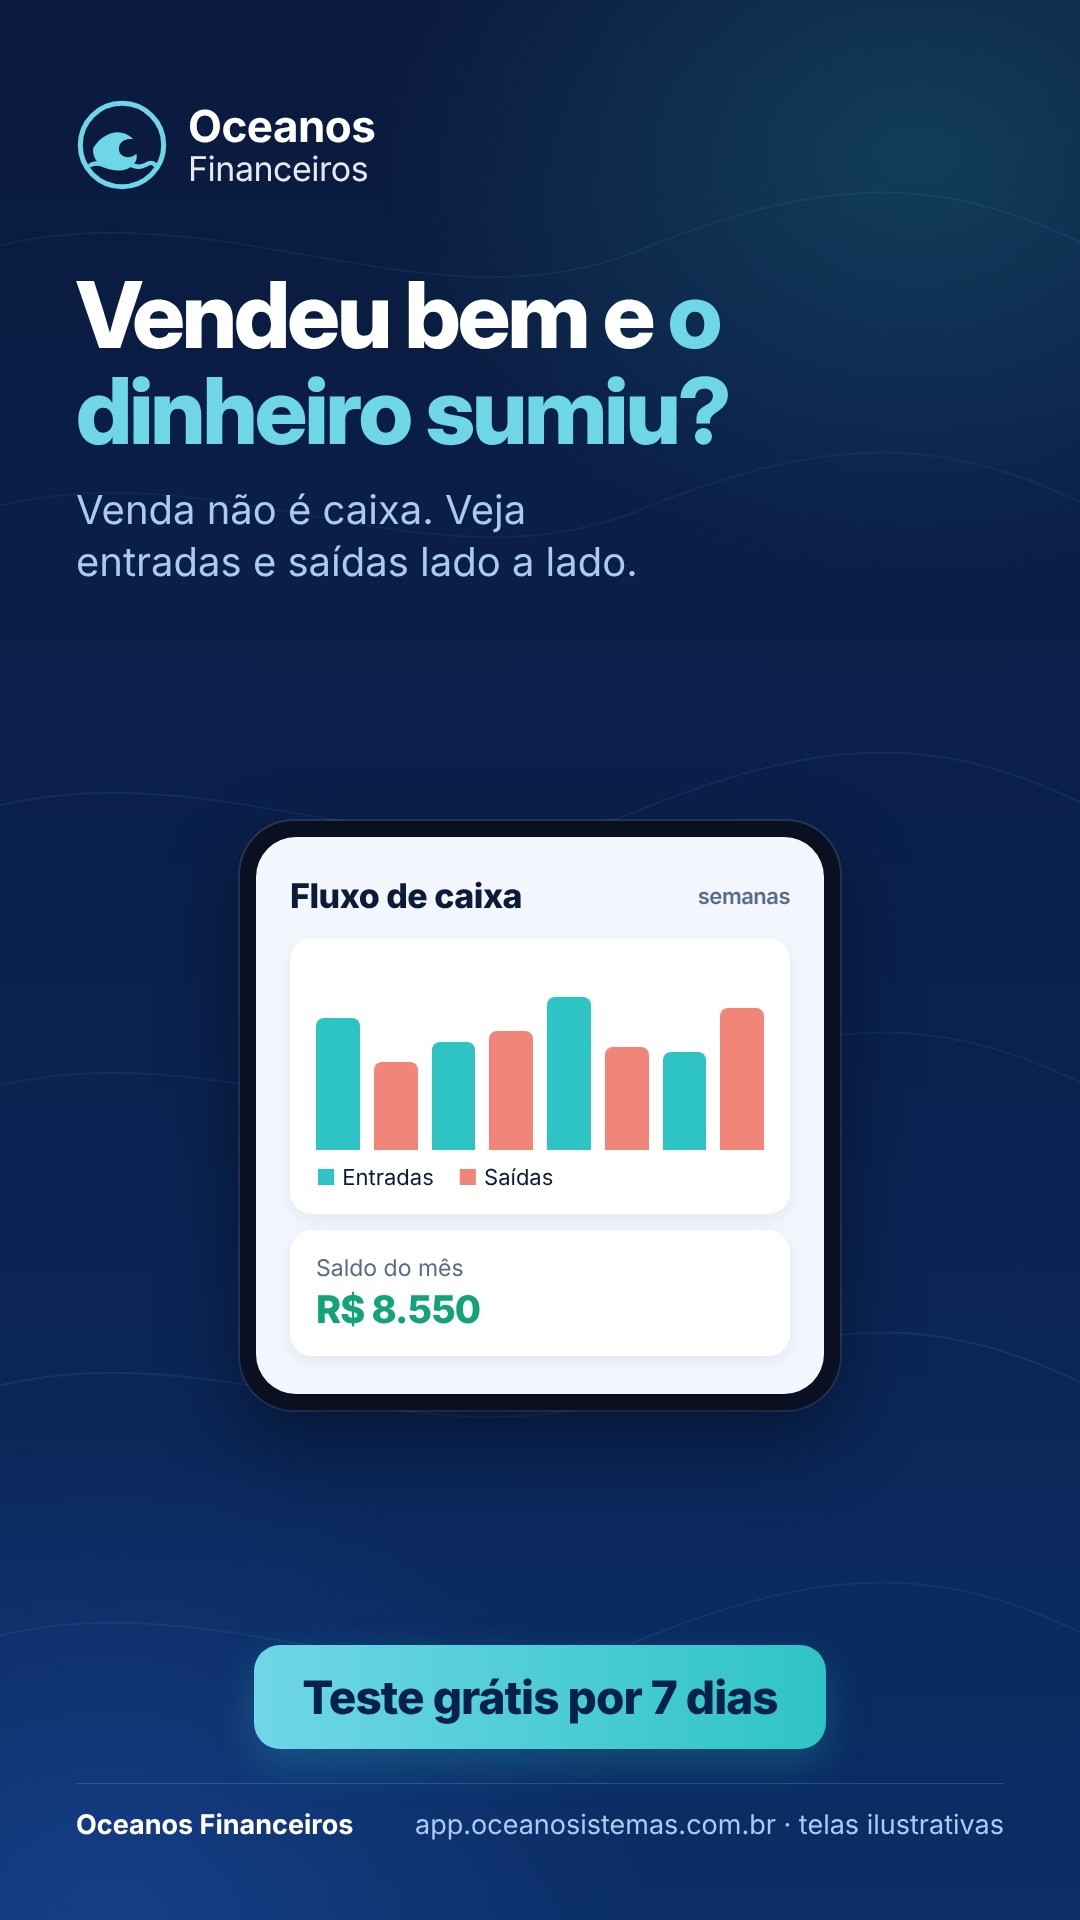
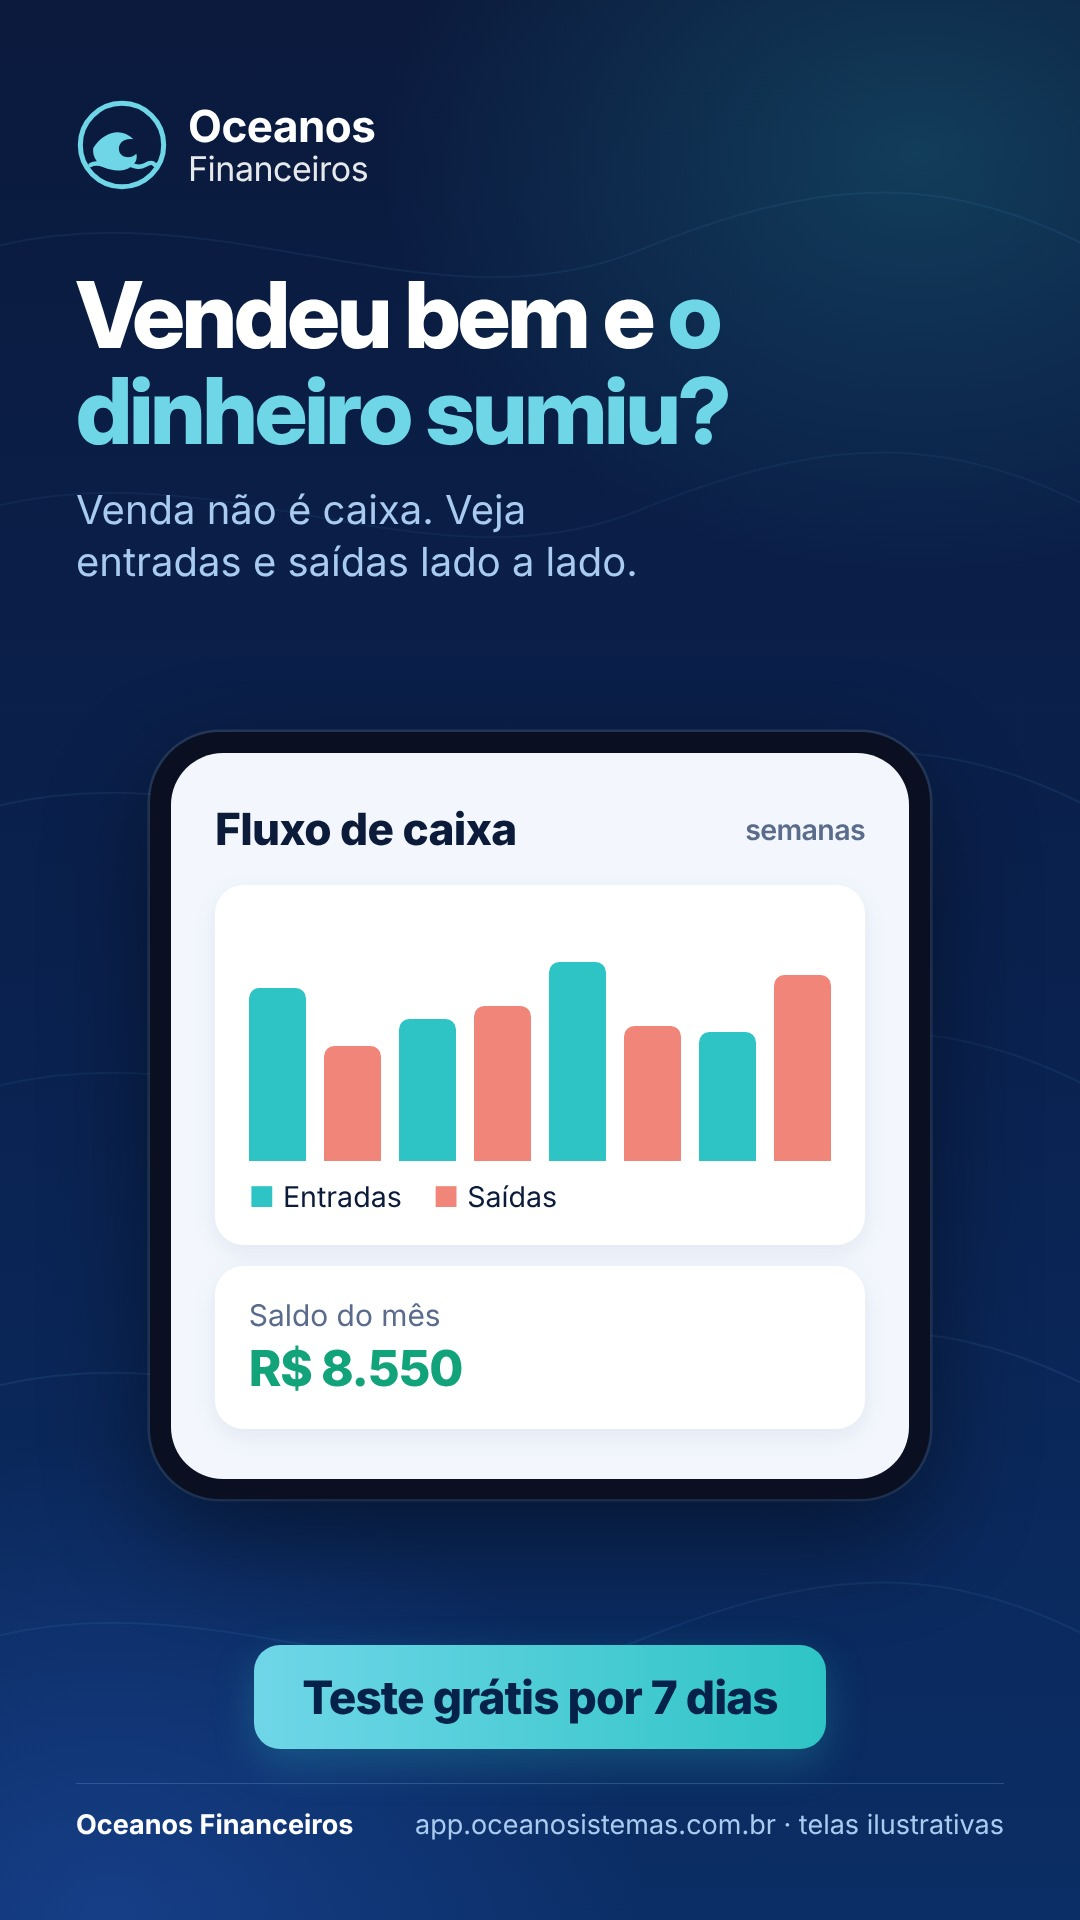
Oceanos Financeiros: stories com celular maior
Claude-Session: https://claude.ai/code/session_01TwhZrvY4W8N5pYvYZ5Ww8b

Changed region(s): [[0.1222, 0.375, 0.8861, 0.8125]]

diff --git a/ads/render_financeiro_azul.py b/ads/render_financeiro_azul.py
@@ -42,6 +42,7 @@ h1 b{{color:{ac};font-weight:800}}
 .bars{{display:flex;align-items:flex-end;gap:14px;height:170px;margin-top:18px}} .bars div{{flex:1;border-radius:8px 8px 0 0}}
 .ic{{width:50px;height:50px;border-radius:50%;display:inline-flex;align-items:center;justify-content:center;color:#fff;font-weight:800;font-size:22px;margin-right:16px;flex:none}}
 .pnl{{background:#fff;border-radius:34px;padding:34px;color:#0C1B3A;box-shadow:0 24px 60px rgba(20,60,130,.18)}} .pnl h3{{font-size:30px;font-weight:800;color:#0B2A6B;margin-bottom:10px}}
+{".stage>.dev{zoom:1.3}" if h > 1500 else ""}
 .note{{font-size:21px;opacity:.6;margin-top:10px;text-align:center}}"""
 
 def logo(light): 
@@ -55,7 +56,7 @@ LINE = '<svg viewBox="0 0 520 170" width="100%" height="170" style="margin-top:1
 def bars(vals): return '<div class="bars">' + "".join(f'<div style="height:{v}%;background:{"#2EC4C6" if i%2==0 else "#F2857A"}"></div>' for i, v in enumerate(vals)) + '</div>'
 
 ARTS = {
- "01-controle": (False, lambda k: f'<h1>Sua empresa no controle, <b>sem planilha.</b></h1><div class="pill">Teste grátis por 7 dias</div><div class="stage"><div class="dev" style="width:900px;border-radius:44px"><div class="scr dk" style="border-radius:30px"><h3>Painel financeiro <i>● Novembro</i></h3><div style="display:flex;gap:16px">' + "".join(f'<div class="cd" style="flex:1;margin:0"><div class="l">{l}</div><div class="v {c}">{v}</div></div>' for l, v, c in [("Receitas","R$ 48.200","g"),("Despesas","R$ 39.650","r"),("Resultado","R$ 8.550","")]) + f'</div><div class="cd"><div class="l">Fluxo de caixa do mês</div>{LINE}</div></div></div></div>'),
+ "01-controle": (False, lambda k: f'<h1>Sua empresa no controle, <b>sem planilha.</b></h1><div class="pill">Teste grátis por 7 dias</div><div class="stage"><div class="dev" style="width:900px;border-radius:44px;zoom:1"><div class="scr dk" style="border-radius:30px"><h3>Painel financeiro <i>● Novembro</i></h3><div style="display:flex;gap:16px">' + "".join(f'<div class="cd" style="flex:1;margin:0"><div class="l">{l}</div><div class="v {c}">{v}</div></div>' for l, v, c in [("Receitas","R$ 48.200","g"),("Despesas","R$ 39.650","r"),("Resultado","R$ 8.550","")]) + f'</div><div class="cd"><div class="l">Fluxo de caixa do mês</div>{LINE}</div></div></div></div>'),
  "02-planilha": (False, lambda k: '<div class="stage" style="flex-direction:column;align-items:flex-start"><h1 style="font-size:118px;margin:0">Chega de digitar cada despesa em <b>planilha.</b></h1><div class="sub" style="font-size:48px;margin-top:40px">Importe o extrato do banco e veja para onde o dinheiro da empresa está indo.</div><div class="pill" style="margin-top:56px">Teste grátis por 7 dias</div></div>'),
  "03-pdf-cartao": (True, lambda k: '<div class="stage" style="gap:34px"><div class="pnl" style="flex:1.5;font-size:24px"><h3>FATURA DO CARTÃO</h3><div style="display:inline-block;background:#0B5FC2;color:#fff;font-weight:800;font-size:22px;padding:8px 16px;border-radius:10px;margin-bottom:8px">PDF</div>' + "".join(f'<div class="row" style="font-size:24px"><span style="display:flex;align-items:center"><span class="ic" style="background:{c};width:42px;height:42px;margin-right:12px">{i}</span>{n}</span><b>{v}</b></div>' for n, v, c, i in [("Fornecedor","R$ 1.250,00","#3B82F6","F"),("Combustível","R$ 380,00","#F28C38","C"),("Assinaturas","R$ 139,90","#8B5CF6","A"),("Refeições","R$ 265,30","#22A565","R")]) + '</div><div style="font-size:60px;color:#0B5FC2;font-weight:800">→</div><div class="pnl" style="flex:1"><h3>Lançamentos</h3>' + "".join(f'<div class="row"><span>{n}</span><b class="g">✓</b></div>' for n in ["Fornecedor","Combustível","Assinaturas","Refeições"]) + '<div style="background:#DDEBFE;color:#0B4FB3;font-weight:700;font-size:22px;padding:14px 16px;border-radius:14px;margin-top:14px">Fatura lida do PDF</div></div></div><h1 style="margin-top:0">Importou o PDF do cartão. <b>Pronto.</b></h1><div class="sub" style="margin-bottom:34px">O Oceanos Financeiros lê a fatura do cartão direto do PDF. Sem digitar linha por linha.</div>'),
  "04-dre": (False, lambda k: '<div class="stage">' + phone('<h3>DRE do mês</h3>' + "".join(f'<div class="cd"><div class="row" style="padding:0;border:0"><span>{n}</span><b class="{c}">{v}</b></div></div>' for n, v, c in [("Receita","R$ 48.200","g"),("Custos","− R$ 21.300","r"),("Despesas","− R$ 18.350","r"),("Resultado","R$ 8.550","g")]) + '<div class="note" style="color:#5B6B8C;opacity:1">Gerado a partir do extrato</div>') + '</div><h1 style="margin-top:0;text-align:center">Importe o extrato. <b>O DRE sai pronto.</b></h1><div class="pill" style="align-self:center;margin-bottom:34px">Teste grátis por 7 dias</div>'),
@@ -78,7 +79,7 @@ PIE = '<div style="width:{d}px;height:{d}px;border-radius:50%;background:conic-g
 LEG = "".join(f'<span style="display:inline-flex;align-items:center;margin:8px 18px 0 0;font-size:27px"><b style="display:inline-block;width:22px;height:22px;border-radius:6px;background:{c};margin-right:10px"></b>{n}</span>' for n, c in [("Moradia · 35%","#0B4FA8"),("Alimentação · 25%","#12A8B8"),("Transporte · 15%","#1F74C4"),("Investimentos · 15%","#4A9BD9"),("Lazer · 10%","#5CC8D6")])
 ARTS.update({
  "07-sugestoes": (False, lambda k: '<h1 style="text-align:center">Ele te diz o que fazer para <b>economizar mais.</b></h1><div class="sub" style="text-align:center">Sugestões inteligentes + metas de poupança automáticas.</div><div class="stage">' + phone('<h3>Sugestões de economia</h3>' + sug("Reduza assinaturas","Streaming que você não usa","−R$ 45/mês","#12A8B8","A") + sug("Cozinhar em casa","Em vez de delivery","−R$ 120/mês","#0B5FC2","C") + (meta("Meta: Viagem","1.200","2.000",60,"#F2B33D","M") if k > 1.2 else ''), w=640) + '</div>'),
- "08-para-onde-vai": (True, lambda k: f'<h1 style="text-align:center">Você sabe para onde vai <b>seu dinheiro?</b></h1><div class="sub" style="text-align:center">Com o Oceanos, você sabe. Sem planilha, sem digitar.</div><div class="stage"><div class="pnl" style="width:100%;text-align:center"><div style="display:flex;justify-content:center;margin:10px 0 26px">{PIE.format(d=int(330*min(k,1.3)))}</div>{LEG}</div></div>'),
+ "08-para-onde-vai": (True, lambda k: f'<h1 style="text-align:center">Você sabe para onde vai <b>seu dinheiro?</b></h1><div class="sub" style="text-align:center">Com o Oceanos, você sabe. Sem planilha, sem digitar.</div><div class="stage"><div class="pnl" style="width:100%;text-align:center"><div style="display:flex;justify-content:center;margin:10px 0 26px">{PIE.format(d=int(330*(1.75 if k > 1.2 else 1)))}</div>{LEG}</div></div>'),
  "09-extrato-aprende": (False, lambda k: '<h1 style="text-align:center">Importa o extrato do banco. <b>Ele já aprende tudo.</b></h1><div class="stage">' + phone('<h3>Importando… <i>92%</i></h3><div style="height:14px;background:#DCE6F5;border-radius:9px"><div style="width:92%;height:14px;border-radius:9px;background:linear-gradient(90deg,#2EC4C6,#0B5FC2)"></div></div><div class="cd"><div class="row" style="padding:0;border:0"><span><b style="color:#0B5FC2">PDF</b> &nbsp;Extrato bancário</span><b class="g">✓</b></div></div>' + sug("Alimentação","R$ 840,50 · Restaurantes","","#12A8B8","A") + sug("Transporte","R$ 220,00 · Aplicativo","","#0B5FC2","T") + (sug("Moradia","R$ 1.200,00 · Aluguel","","#F2B33D","M") if k > 1.2 else ''), w=640) + '</div><div class="sub" style="text-align:center;margin:0 0 34px;color:#8FC8FF">Ele aprende o que é cada despesa e classifica corretamente para você.</div>'),
 })
 out = Path(__file__).resolve().parent / "oceanos-financeiro-azul"; out.mkdir(exist_ok=True)
